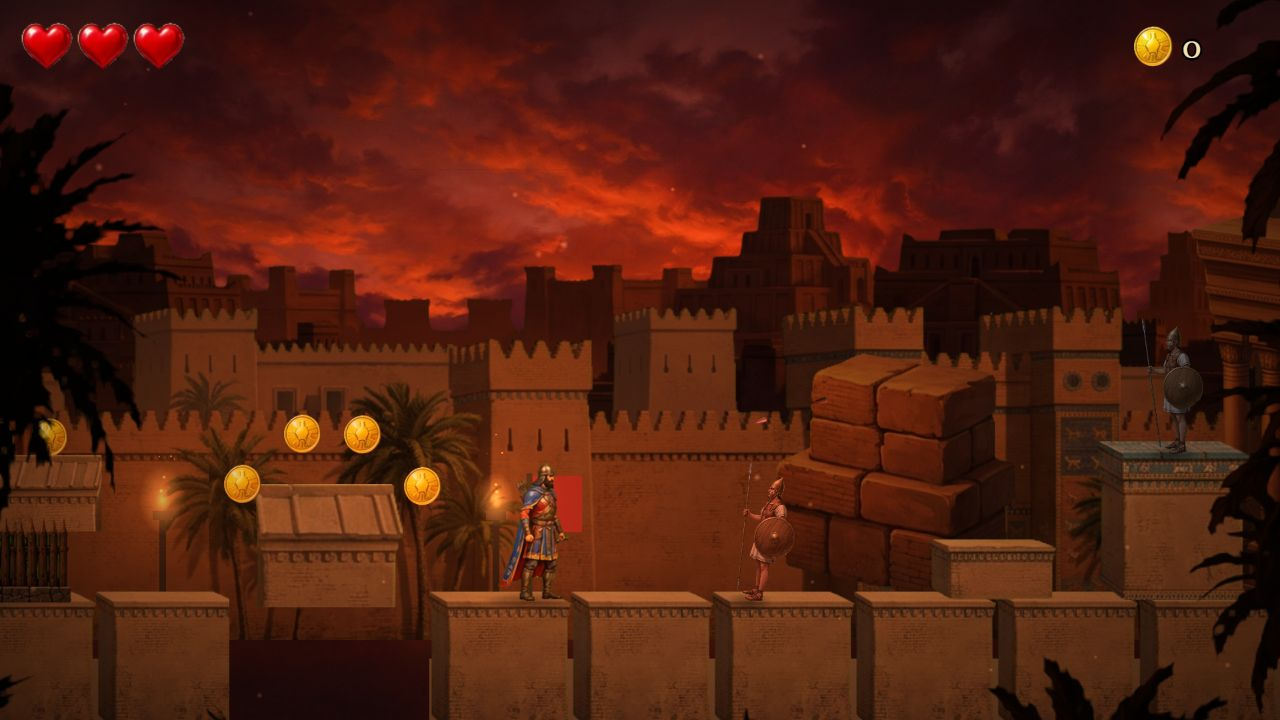
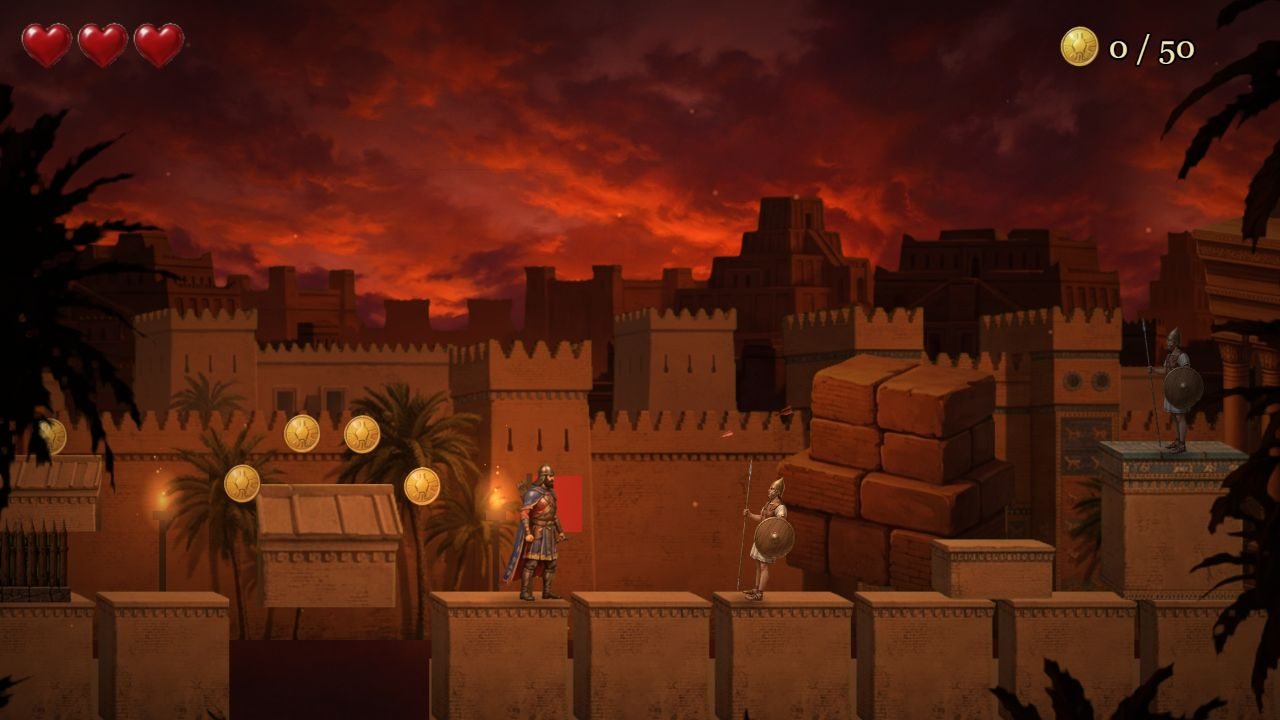
Сердце за 50 монет и перенос счёта, трещины и пыль на обваливающихся плитах, приглушение ярких спрайтов

diff --git a/src/scenes/Game.js b/src/scenes/Game.js
@@ -177,8 +177,27 @@ export default class Game extends Phaser.Scene {
       if (art.snow && !a.noSnow) vis.push(this.addSnow(p.x + inset, p.y, p.w - inset * 2, 23));
       if (p.ice) vis.push(this.add.rectangle(p.x + inset, p.y - 3, p.w - inset * 2, 12, 0xd8f0ff, 0.8).setOrigin(0).setDepth(23));
     }
+    if (p.crumble) vis.push(this.addCracks(p.x + inset, p.y, p.w - inset * 2));
     z.vis = vis;
     for (const v of vis) v.homeY = v.y;
+  }
+
+  // трещины на плите, которая обвалится, — чтобы игрок видел её заранее
+  addCracks(x, y, w) {
+    const g = this.add.graphics().setDepth(24);
+    for (let i = 0; i < 3; i++) {
+      let cx = x + w * (0.2 + i * 0.3);
+      let cy = y - 4;
+      g.lineStyle(4, 0x050505, 0.85).beginPath().moveTo(cx, cy);
+      for (let k = 0; k < 4; k++) {
+        cx += ((i + k) % 2 ? 1 : -1) * (7 + ((i * 5 + k * 3) % 6));
+        cy += 9;
+        g.lineTo(cx, cy);
+      }
+      g.strokePath();
+      g.lineStyle(2, 0x050505, 0.7).lineBetween(cx, cy - 18, cx + (i % 2 ? 14 : -14), cy - 8);
+    }
+    return g;
   }
 
   // снежная шапка, нарисованная кодом
@@ -192,6 +211,14 @@ export default class Game extends Phaser.Scene {
   startCrumble(s) {
     s.crumbling = true;
     if (this.game.sfx) this.game.sfx.play('crumble');
+    // пыль и крошка сыплются из-под плиты
+    if (!this.crumbleDust) {
+      this.crumbleDust = this.add.particles(0, 0, 'dot', {
+        emitting: false, lifespan: 700, speedY: { min: 60, max: 260 }, speedX: { min: -50, max: 50 },
+        scale: { start: 0.4, end: 0 }, alpha: { start: 0.8, end: 0 }, tint: 0xc8b89c,
+      }).setDepth(25);
+    }
+    for (let i = 0; i < 6; i++) this.crumbleDust.emitParticleAt(s.body.left + (s.body.width * (i + 0.5)) / 6, s.body.top + 30, 3);
     this.tweens.add({ targets: s.vis, x: '+=5', duration: 45, yoyo: true, repeat: Math.floor(CRUMBLE.delayMs / 90) });
     this.time.delayedCall(CRUMBLE.delayMs, () => {
       s.body.enable = false;
@@ -296,10 +323,22 @@ export default class Game extends Phaser.Scene {
     if (p.kind === 'heart') {
       if (this.player.hp >= PLAYER.maxHp) return;
       this.player.hp++;
-    } else this.coins++;
+    } else {
+      this.coins++;
+      if (this.coins % PLAYER.coinsPerHeart === 0) this.coinReward();
+    }
     if (this.game.sfx) this.game.sfx.play(p.kind === 'heart' ? 'heart' : 'coin');
     this.tweens.killTweensOf(p);
     p.destroy();
+  }
+
+  // награда за каждые 50 монет: сердце (одно можно носить сверх трёх)
+  coinReward() {
+    const pl = this.player;
+    if (pl.hp < PLAYER.maxHp + 1) pl.hp++;
+    if (this.game.sfx) this.game.sfx.play('heart');
+    const t = this.add.text(pl.x, pl.y - 240, '+1 сердце', { fontFamily: 'Georgia, serif', fontSize: 44, color: '#ffd75e', stroke: '#000', strokeThickness: 6 }).setOrigin(0.5).setDepth(95);
+    this.tweens.add({ targets: t, y: t.y - 90, alpha: 0, duration: 1400, onComplete: () => t.destroy() });
   }
 
   // ---------- жизнь, смерть, переходы ----------
@@ -349,7 +388,7 @@ export default class Game extends Phaser.Scene {
     this.cameras.main.fadeOut(900, 0, 0, 0);
     this.cameras.main.once('camerafadeoutcomplete', () => {
       this.scene.stop('UI');
-      if (this.scene.get('Story') && this.levelId >= 1) this.scene.start('Story', { i: this.levelId });
+      if (this.scene.get('Story') && this.levelId >= 1) this.scene.start('Story', { i: this.levelId, coins: this.coins });
       else this.scene.start('Game', { level: LEVELS[this.levelId + 1] ? this.levelId + 1 : this.levelId });
     });
   }

diff --git a/src/scenes/Boot.js b/src/scenes/Boot.js
@@ -1,6 +1,7 @@
 import Phaser from 'phaser';
 import { PARAMS } from '../params.js';
 import Sfx from '../audio/Sfx.js';
+import { STYLE } from '../config.js';
 
 // Загружает общие ассеты (герой, враги, предметы) и рисует кодом служебные текстуры.
 export default class Boot extends Phaser.Scene {
@@ -19,12 +20,30 @@ export default class Boot extends Phaser.Scene {
 
   create() {
     this.makeTextures();
+    this.muteColors();
     this.game.sfx = new Sfx(this.game);
     this.anims.create({ key: 'hayk-run', frames: this.anims.generateFrameNumbers('hayk', { frames: [1, 2, 3, 4, 5, 6, 7, 9, 10] }), frameRate: 14, repeat: -1 });
 
     if (PARAMS.scene && this.scene.get(PARAMS.scene)) this.scene.start(PARAMS.scene, { i: PARAMS.i });
     else if (PARAMS.level !== null) this.scene.start('Game', { level: PARAMS.level, cp: PARAMS.cp ? PARAMS.cp - 1 : -1 });
     else this.scene.start('Menu');
+  }
+
+  // Перерисовывает яркие спрайты приглушёнными (один раз при запуске, на скорость игры не влияет).
+  muteColors() {
+    const keys = ['hayk', 'coin', 'heart', 'wolf-1', 'wolf-2', 'boar', 'bear', 'deer', 'wooden-stakes', 'palisade'];
+    for (const key of keys) {
+      const img = this.textures.get(key).getSourceImage();
+      const c = document.createElement('canvas');
+      c.width = img.width;
+      c.height = img.height;
+      const g = c.getContext('2d');
+      g.filter = `saturate(${STYLE.saturation}) brightness(${STYLE.brightness})`;
+      g.drawImage(img, 0, 0);
+      this.textures.remove(key);
+      if (key === 'hayk') this.textures.addSpriteSheet(key, c, { frameWidth: 200, frameHeight: 196 });
+      else this.textures.addCanvas(key, c);
+    }
   }
 
   radial(key, size, stops) {

diff --git a/src/scenes/UI.js b/src/scenes/UI.js
@@ -15,8 +15,10 @@ export default class UI extends Phaser.Scene {
     for (let i = 0; i < PLAYER.maxHp; i++) {
       this.hearts.push(this.add.image(70 + i * 84, 70, 'heart').setScale(1.7));
     }
-    this.add.image(GAME_W - 190, 70, 'coin').setScale(1.2);
-    this.coinText = this.add.text(GAME_W - 150, 70, '0', { fontFamily: FONT, fontSize: 48, color: '#f3e3b0', stroke: '#000', strokeThickness: 6 }).setOrigin(0, 0.5);
+    // четвёртое, «запасное» сердце — награда за монеты
+    this.bonus = this.add.image(70 + PLAYER.maxHp * 84, 70, 'heart').setScale(1.7).setTint(0xffd75e).setVisible(false);
+    this.add.image(GAME_W - 300, 70, 'coin').setScale(1.2);
+    this.coinText = this.add.text(GAME_W - 260, 70, '0', { fontFamily: FONT, fontSize: 48, color: '#f3e3b0', stroke: '#000', strokeThickness: 6 }).setOrigin(0, 0.5);
     this.shownHp = -1;
     this.shownCoins = -1;
 
@@ -64,10 +66,11 @@ export default class UI extends Phaser.Scene {
     if (g.player.hp !== this.shownHp) {
       this.shownHp = g.player.hp;
       this.hearts.forEach((h, i) => h.setAlpha(i < this.shownHp ? 1 : 0.22).setTint(i < this.shownHp ? 0xffffff : 0x000000));
+      this.bonus.setVisible(this.shownHp > PLAYER.maxHp);
     }
     if (g.coins !== this.shownCoins) {
       this.shownCoins = g.coins;
-      this.coinText.setText(String(g.coins));
+      this.coinText.setText(`${g.coins % PLAYER.coinsPerHeart} / ${PLAYER.coinsPerHeart}`);
     }
     const b = g.boss;
     const show = !!(b && b.active && b.awake);

diff --git a/src/config.js b/src/config.js
@@ -26,6 +26,7 @@ export const PLAYER = {
   bodyW: 44, // ширина хитбокса (в пикселях кадра)
   bodyH: 128, // высота хитбокса (в пикселях кадра)
   maxHp: 3, // сердца
+  coinsPerHeart: 50, // за столько монет даётся сердце (можно одно сверх трёх)
   invulnMs: 1000, // неуязвимость после удара
   knockX: 430, // отбрасывание при ударе
   knockY: 560,
@@ -81,5 +82,9 @@ export const WIND = {
 };
 
 export const CRUMBLE = { delayMs: 550, respawnMs: 3500 };
+
+// Приглушение ярких спрайтов (герой, звери, предметы), чтобы они не выбивались из живописных фонов.
+// 1 — как в файле, 0 — серое.
+export const STYLE = { saturation: 0.68, brightness: 0.95 };
 
 export const AUDIO = { music: 0.6, sfx: 0.7, fadeMs: 1500 };

diff --git a/src/scenes/Story.js b/src/scenes/Story.js
@@ -33,7 +33,7 @@ export default class Story extends Phaser.Scene {
         this.cameras.main.fadeOut(700, 0, 0, 0);
         this.cameras.main.once('camerafadeoutcomplete', () => {
           if (i >= STORY.length - 1) this.scene.start('Ending');
-          else this.scene.start('Game', { level: i + 1 });
+          else this.scene.start('Game', { level: i + 1, coins: data.coins ?? 0 });
         });
       });
     });

diff --git a/src/atmosphere/index.js b/src/atmosphere/index.js
@@ -124,9 +124,10 @@ export const ATMOSPHERE = {
     ],
     grade: { color: 0xfff2c8, alpha: 0.07, blend: 'ADD' },
     vignette: 0.3,
-    saturation: -0.28,
+    saturation: -0.15,
     particles: [{ type: 'pollen' }],
     art: {
+      propTint: 0xd4d2be,
       ground: { tex: 'a-pt-01', top: 0.13, scale: 1.5, fill: 0x5b3722, overlap: 0.08 },
       plats: {
         p4: { tex: 'a-pt-04', top: 0.13 },

diff --git a/docs/report.md b/docs/report.md
@@ -18,6 +18,7 @@ npm run dev
 - **Меню:** «Начать игру», «Продолжить» (с последнего открытого уровня), «Настройки» (громкость музыки и эффектов). Музыка меню включается после первого нажатия клавиши.
 - **Айк:** бег с разгоном, прыжок с тремя «удобствами» (можно прыгнуть чуть сойдя с края, нажатие запоминается перед приземлением, короткое нажатие — короткий прыжок), лук с зарядом и полоской над героем.
 - **Здоровье:** три сердца, секунда неуязвимости после удара, три чекпоинта на уровень, экран проигрыша с «Заново».
+- **Монеты:** за каждые 50 монет даётся сердце (одно можно носить сверх трёх), счёт переносится между уровнями.
 - **Враги:** копейщик (ходит, делает выпад), лучник (стоит, стреляет с заметной подготовкой), волк, кабан, медведь, мирный олень, ловушки-колья.
 - **Уровень 1, Вавилон:** закат, пыль, факелы, башни с лучниками в конце.
 - **Уровень 2, Путь на север:** порывы ветра (сносят в прыжке, перед порывом снег ускоряется), скользкий лёд, обваливающиеся плиты, снег.
@@ -46,15 +47,13 @@ npm run dev
 - **Уровень 3:** средний план — две плоские зелёные полосы, переднего плана нет. Яркие ассеты приглушены общим снижением насыщенности.
 - **Земля на всех уровнях** собрана из одной картинки, повторённой в ряд, — видны стыки.
 - **Чекпоинт, факелы, вода в ручьях, волна от удара Бела** нарисованы кодом.
-- **Стиль неоднороден:** Айк из ленты, звери, монеты и сердца ярче и «игровее», чем фоны Вавилона, гор и Айоц-Дзора.
+- **Стиль выровнен только цветом:** Айк, звери, монеты и сердца приглушены кодом, но нарисованы они всё равно проще и «игровее», чем фоны. Настоящее единство даст только перерисовка.
 - Коммиты объединяют по несколько этапов, а не по одному на этап.
 
 ## Известные ошибки и шероховатости
 
 - Айк из ленты мелкий (кадры 200×196 растянуты в 1,3 раза) и слегка размыт.
-- Обваливающиеся плиты на арене Бела выглядят так же, как обычные, только светлее, — игрок может не сразу понять, что они падают.
 - Если встать вплотную к Белу, он ранит касанием постоянно (с перерывом на секунду неуязвимости).
-- Счёт монет не переносится с уровня на уровень и ни на что не влияет.
 - Олень, добежав до края своей площадки, просто останавливается.
 - В моём окружении команды `npm run …` не запускались (npm не находил node), поэтому я вызывал те же скрипты напрямую: `node node_modules/vite/bin/vite.js build`, `node scripts/shots.mjs`. В обычном терминале `npm run dev`, `build`, `shots`, `check`, `bot` должны работать, но это стоит проверить первым делом.
 

diff --git a/docs/decisions.md b/docs/decisions.md
@@ -8,7 +8,10 @@
 - Прыжок — пробел, а также W и стрелка вверх.
 - Обычные платформы твёрдые только сверху (сквозь них можно запрыгнуть снизу); блоки и башни твёрдые целиком.
 - Падение в яму отнимает одно сердце и возвращает к последнему чекпоинту. Когда сердца кончились — экран проигрыша; «Заново» возвращает к последнему чекпоинту с тремя сердцами и тем счётом монет, что был на чекпоинте.
-- На каждом уровне герой начинает с тремя сердцами. Счёт монет между уровнями не переносится.
+- На каждом уровне герой начинает с тремя сердцами. Счёт монет переносится на следующий уровень.
+- За каждые 50 монет даётся сердце; одно сердце можно носить сверх трёх (в интерфейсе оно золотое). Счётчик показывает, сколько собрано до следующей награды.
+- Яркие спрайты (Айк, звери, монеты, сердца, колья) при запуске перерисовываются приглушёнными: насыщенность 68 %, яркость 95 % (`STYLE` в `src/config.js`). Декорации уровня 3 слегка затемнены оттенком.
+- На обваливающихся плитах нарисованы трещины, при обвале сыплется пыль.
 - Враги, оставшиеся позади чекпоинта, после возрождения не возвращаются.
 - Чекпоинт нарисован кодом: столбик с серым флагом, который становится красным.
 - Рамка переднего плана увеличена в 1,5 раза и сдвинута вниз: в исходном размере она закрывала героя и землю.
@@ -31,7 +34,7 @@
 - Уровень 1: башни можно взять и прыжком с земли, ступень перед ними — для удобства.
 - Уровень 2: порыв ветра дует влево (навстречу герою) и действует только в прыжке. Цикл: 4,2 с затишье → 1,3 с предупреждение (снег ускоряется, звук) → 1,9 с порыв. `north-mid.png` (ущелье) не использован — упрощение.
 - Уровень 2: врагов мало (3 волка, копейщик, лучник) — главная трудность здесь погода.
-- Уровень 3: ямы — это ручьи; небо градиентом; насыщенность всей картинки снижена на 28 %, чтобы яркие ассеты не выбивались.
+- Уровень 3: ямы — это ручьи; небо градиентом; насыщенность всей картинки снижена на 15 %, чтобы яркие ассеты не выбивались.
 - Уровень 4: арена запирается стеной, камера останавливается на арене.
 
 ## Бел

diff --git a/CLAUDE.md b/CLAUDE.md
@@ -86,7 +86,8 @@
 Что готово:
 - Меню (начать, продолжить, настройки громкости), 5 текстовых заставок, финал с титрами, пауза по Esc
 - Айк: бег, прыжок (coyote time, буфер, переменная высота), лук с зарядом (X)
-- Здоровье (3 сердца), чекпоинты, монеты, сердца, экран проигрыша
+- Здоровье (3 сердца), чекпоинты, монеты (сердце за каждые 50, счёт переносится между уровнями), экран проигрыша
+- Яркие спрайты приглушаются кодом при запуске (`STYLE` в `src/config.js`); на обваливающихся плитах трещины
 - Враги: копейщик, лучник (перекрашенный копейщик), волк, кабан, медведь, олень; ловушки
 - Уровень 1 Вавилон, уровень 2 Путь на север (ветер, лёд, обвалы), уровень 3 Страна Арарат, уровень 4 Айоц-Дзор с боссом Белом
 - Атмосфера каждого уровня: параллакс, подкраска, частицы, виньетка, факелы, молнии
@@ -101,7 +102,7 @@
 Что дальше (решать автору):
 - Заменить заглушки настоящими ассетами — список по важности в `docs/missing-assets.md`
 - Поиграть руками и подправить сложность: все числа в `src/config.js`, расстановка — в `src/levels/`
-- Выбрать единый стиль графики (уровень 3, звери и предметы ярче остальных)
+- Перерисовать Айка, зверей и предметы в живописном стиле (сейчас они только приглушены цветом)
 - Принятые без автора решения — в `docs/decisions.md`
 
 Ассеты, которые лежат в проекте:
